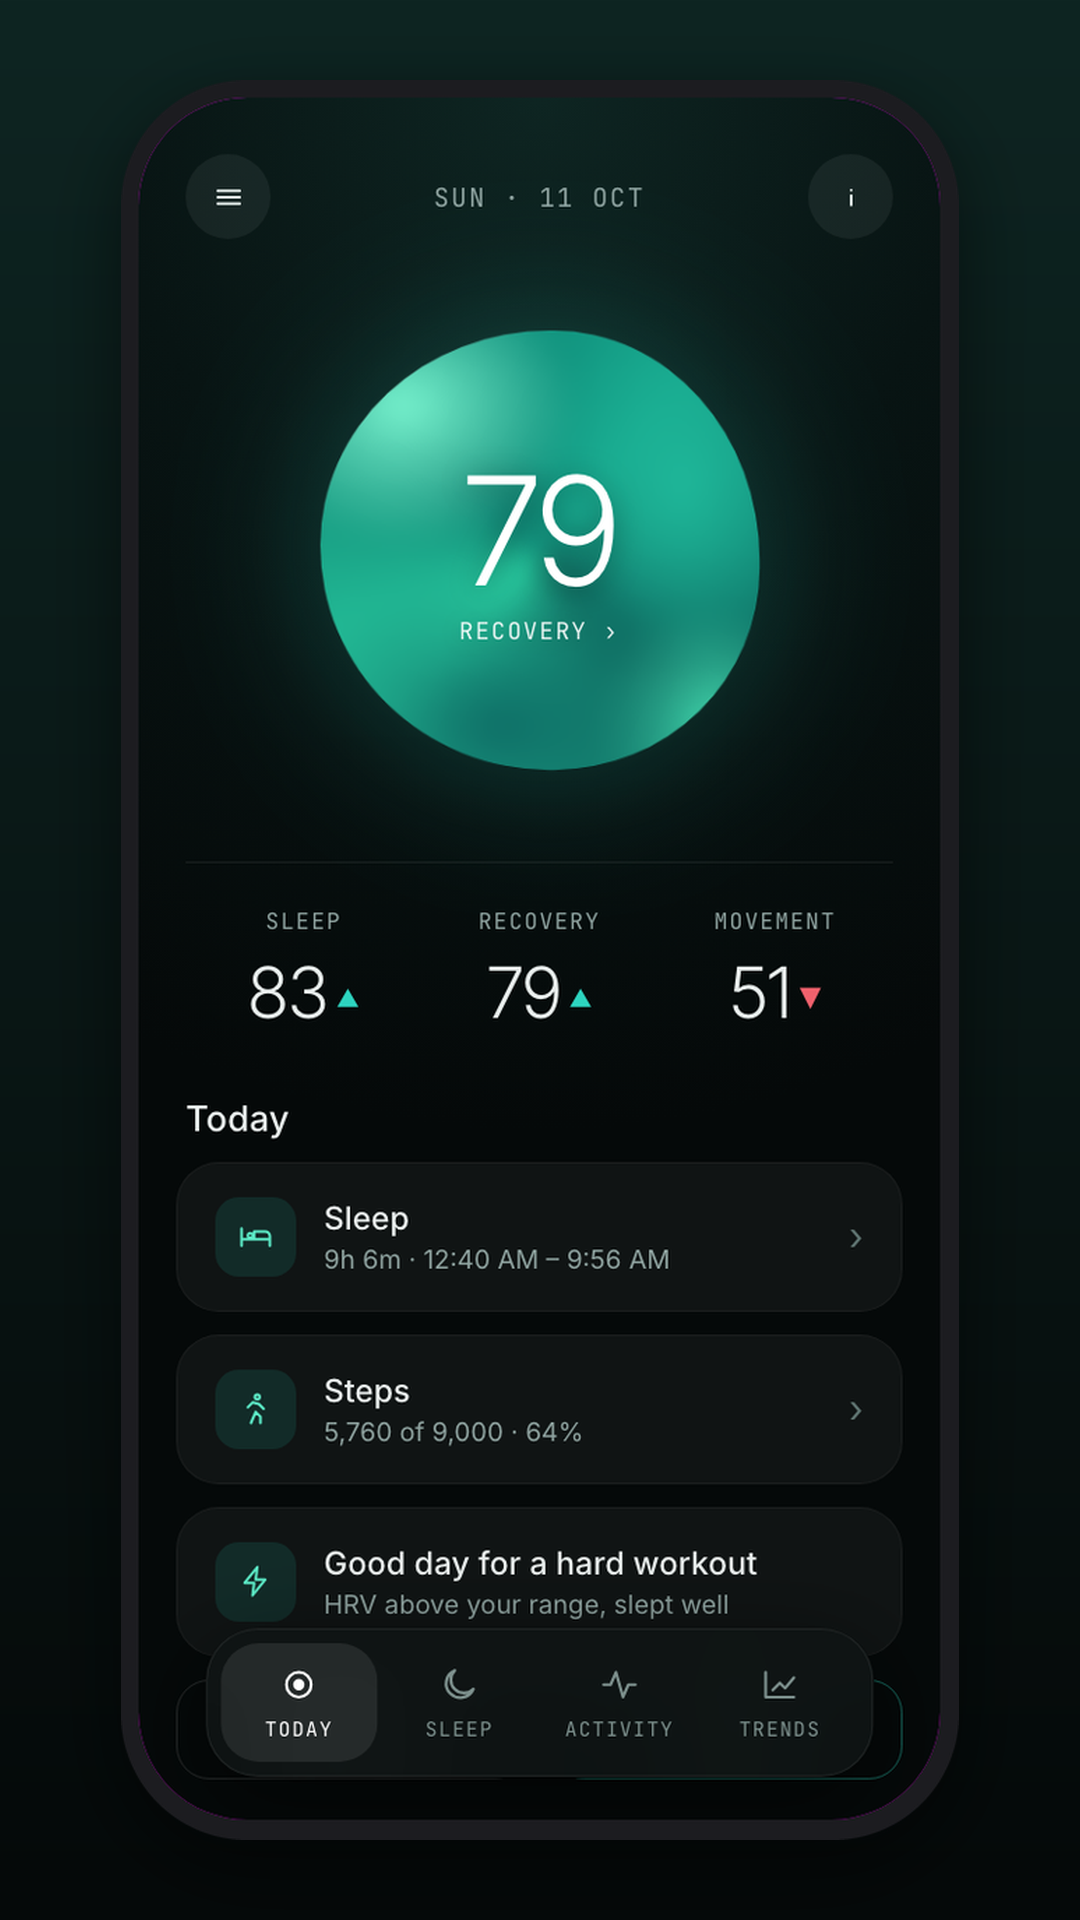
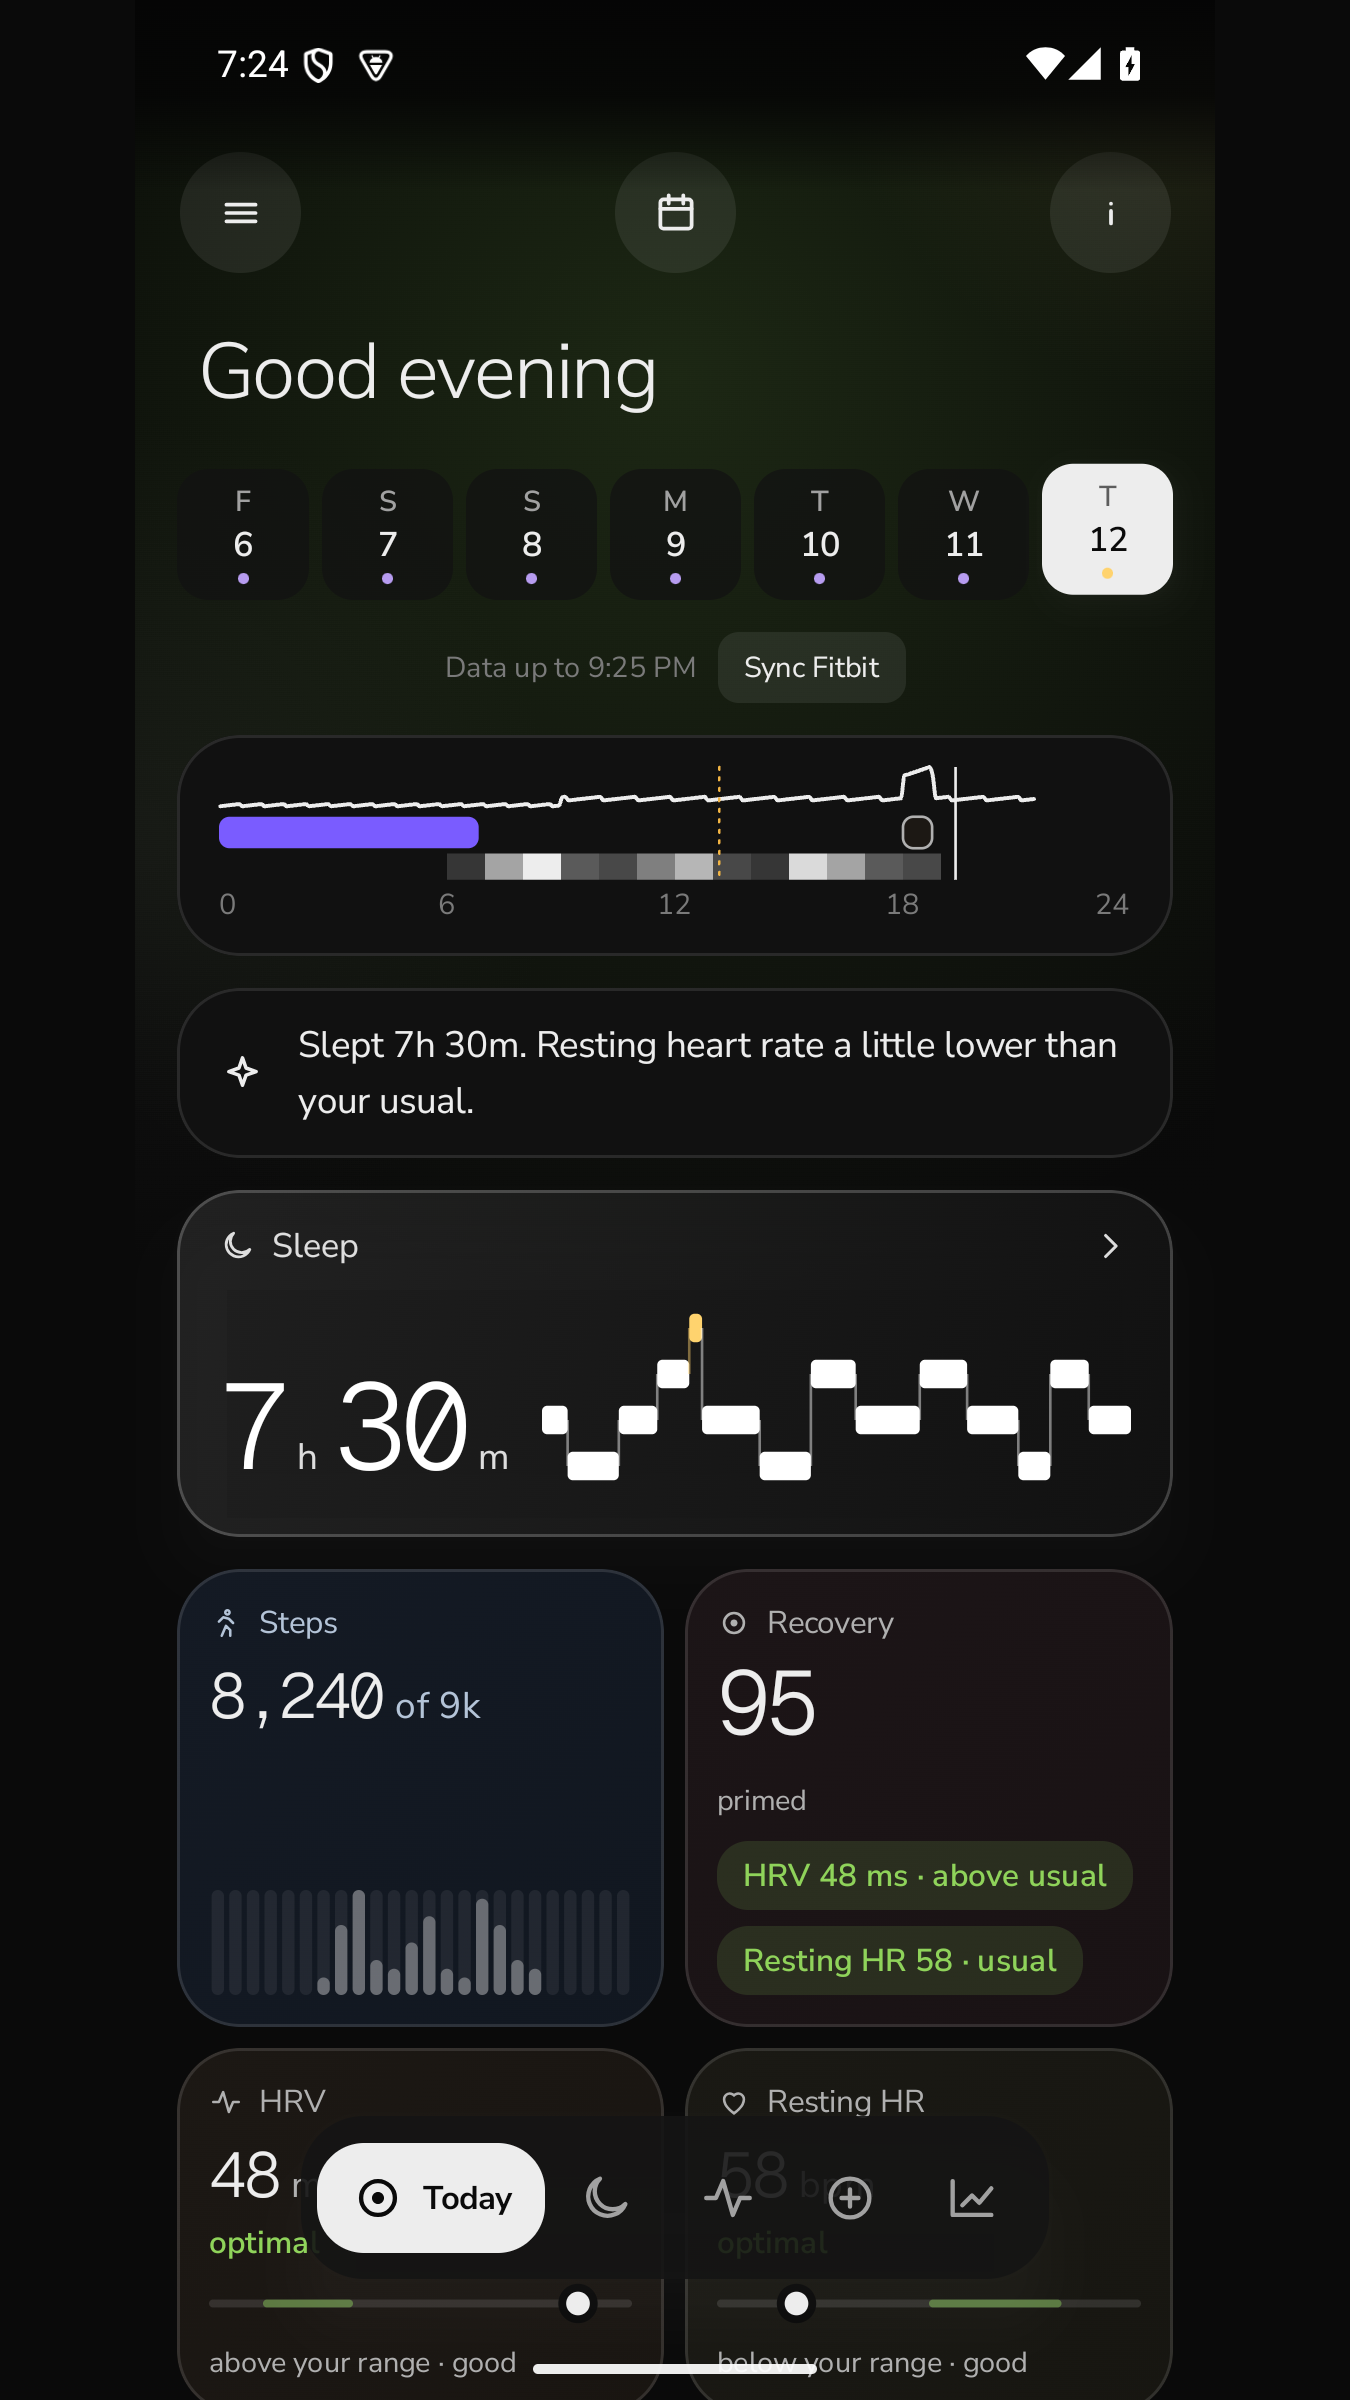
Sample data for store screenshots: debug builds started with the demo extra; five new Play screenshots

diff --git a/app/src/main/java/app/fitdash/MainActivity.kt b/app/src/main/java/app/fitdash/MainActivity.kt
@@ -58,6 +58,7 @@ import app.fitdash.settings.SettingsStore
 import app.fitdash.settings.ThemeChoice
 import app.fitdash.ui.LoadingScreen
 import app.fitdash.ui.MessageScreen
+import app.fitdash.ui.DemoSource
 import app.fitdash.ui.IntroScreen
 import app.fitdash.ui.NameScreen
 import app.fitdash.ui.NoDataScreen
@@ -92,7 +93,8 @@ class MainActivity : ComponentActivity() {
         openPage.value = intent.pageExtra()
         super.onCreate(savedInstanceState)
         clearShareCache(applicationContext)
-        val vm: TodayViewModel by viewModels { viewModelFactory { initializer { TodayViewModel(HealthReader(applicationContext), settings = SettingsStore.get(applicationContext).flow, onReadFailed = { Log.w("fitdash", "Health Connect read failed", it) }, store = SnapshotCache(applicationContext), onCacheSaved = { FitdashWidget().updateAll(applicationContext) }, journal = JournalStore.get(applicationContext)) } } }
+        demo = BuildConfig.DEBUG && intent.getBooleanExtra("demo", false)
+        val vm: TodayViewModel by viewModels { viewModelFactory { initializer { TodayViewModel(if (demo) DemoSource else HealthReader(applicationContext), settings = SettingsStore.get(applicationContext).flow, onReadFailed = { Log.w("fitdash", "Health Connect read failed", it) }, store = if (demo) null else SnapshotCache(applicationContext), onCacheSaved = { FitdashWidget().updateAll(applicationContext) }, journal = JournalStore.get(applicationContext)) } } }
         splash.setKeepOnScreenCondition { vm.state.value == TodayUiState.Loading && SystemClock.uptimeMillis() - splashStart < SPLASH_MAX_MILLIS }
         splash.setOnExitAnimationListener { provider ->
             val view = provider.view
@@ -133,13 +135,16 @@ private fun Intent?.pageExtra(): Int? = this?.getIntExtra(EXTRA_PAGE, -1)?.takeI
 private const val HEALTH_CONNECT_STORE =
     "market://details?id=com.google.android.apps.healthdata&url=healthconnect%3A%2F%2Fonboarding"
 
+// Debug builds started with `--ez demo true` show sample data, for store screenshots.
+private var demo = false
+
 @Composable
 private fun App(store: SettingsStore, openPage: MutableStateFlow<Int?>) {
     val context = LocalContext.current
     val vm: TodayViewModel = viewModel {
         TodayViewModel(
-            HealthReader(context.applicationContext), settings = store.flow, onReadFailed = { Log.w("fitdash", "Health Connect read failed", it) },
-            store = SnapshotCache(context.applicationContext), onCacheSaved = { FitdashWidget().updateAll(context.applicationContext) },
+            if (demo) DemoSource else HealthReader(context.applicationContext), settings = store.flow, onReadFailed = { Log.w("fitdash", "Health Connect read failed", it) },
+            store = if (demo) null else SnapshotCache(context.applicationContext), onCacheSaved = { FitdashWidget().updateAll(context.applicationContext) },
             journal = JournalStore.get(context.applicationContext),
         )
     }

diff --git a/app/src/main/java/app/fitdash/ui/PreviewData.kt b/app/src/main/java/app/fitdash/ui/PreviewData.kt
@@ -31,15 +31,18 @@ object PreviewData {
         val plan = listOf(
             StageType.LIGHT to 20, StageType.DEEP to 40, StageType.LIGHT to 30, StageType.REM to 25, StageType.AWAKE to 10,
             StageType.LIGHT to 45, StageType.DEEP to 40, StageType.REM to 35, StageType.LIGHT to 50, StageType.REM to 37,
+            StageType.LIGHT to 40, StageType.DEEP to 25, StageType.REM to 30, StageType.LIGHT to 33,
         )
         var t = start
         val stages = plan.map { (type, min) -> val e = t.plusSeconds(min * 60L); SleepStage(t, e, type).also { t = e } }
         return SleepSession(start, t, stages)
     }
 
-    private val snapshot by lazy {
+    private val snapshot by lazy { snapshot(today) }
+
+    fun snapshot(today: LocalDate): HealthSnapshot {
         val days = (0..13).map { today.minusDays(it.toLong()) }
-        HealthSnapshot(
+        return HealthSnapshot(
             sleep = days.map { stagedNight(at(it.minusDays(1), 23, 10)) },
             hrv = days.mapIndexed { i, d -> Sample(at(d, 5), if (i == 0) 48.0 else 40.0 + i % 5) },
             restingHr = days.mapIndexed { i, d -> Sample(at(d, 7), if (i == 0) 58.0 else 60.0 + i % 3) },
@@ -50,6 +53,7 @@ object PreviewData {
                 (1..27).map { DayActivity(today.minusDays(it.toLong()), if (it == 1) 5760 else 7000L + (it % 5) * 600, 4300.0 + it * 40, 1820.0 + it * 10) },
             workouts = listOf(Workout(at(today, 18), at(today, 18, 46), ExerciseType.RUNNING, distanceMeters = 5100.0, kcal = 312.0, avgHr = 148.0, maxHr = 171.0, app = "com.fitbit.FitbitMobile")) +
                 (1..3).map { w -> val d = today.minusDays(w * 7L); Workout(at(d, 18), at(d, 18, 50), ExerciseType.RUNNING, distanceMeters = 5400.0, kcal = 330.0, avgHr = 150.0, maxHr = 172.0, app = "com.fitbit.FitbitMobile") },
+            waterDaily = mapOf(today to 1.5),
             heightMeters = 1.75,
             weightKg = 72.4,
             heartRate = (0 until 24 * 12).map { i -> Sample(at(today, 0).plusSeconds(i * 300L), if (i < 108) 56.0 + (i % 7) else if (i in 216..225) 140.0 + (i % 9) * 3 else 72.0 + (i % 11)) }.filter { it.time.isBefore(at(today, 21, 30)) },

diff --git a/app/src/main/java/app/fitdash/ui/DemoSource.kt b/app/src/main/java/app/fitdash/ui/DemoSource.kt
@@ -1,0 +1,25 @@
+package app.fitdash.ui
+
+import app.fitdash.health.Availability
+import app.fitdash.health.HealthSnapshot
+import app.fitdash.health.HealthSource
+import app.fitdash.health.ReadProgress
+import app.fitdash.settings.NutrientKind
+import java.time.Instant
+import java.time.ZonedDateTime
+
+// The preview sample days served as if they came from Health Connect. Nothing is read or written.
+object DemoSource : HealthSource {
+    override val allPermissions = setOf("demo")
+    override fun availability() = Availability.AVAILABLE
+    override suspend fun grantedPermissions() = allPermissions
+    override suspend fun read(now: ZonedDateTime, since: Instant?, onProgress: (ReadProgress) -> Unit): HealthSnapshot = PreviewData.snapshot(now.toLocalDate())
+    override suspend fun addWater(liters: Double, at: Instant): String? = null
+    override suspend fun deleteWater(id: String) = false
+    override suspend fun addSteps(start: Instant, end: Instant, count: Long) = false
+    override suspend fun addSleep(start: Instant, end: Instant): String? = null
+    override suspend fun deleteSleep(id: String) = false
+    override suspend fun setHeight(meters: Double, at: Instant) = false
+    override suspend fun addNutrient(kind: NutrientKind, amount: Double, at: Instant): String? = null
+    override suspend fun deleteNutrient(id: String) = false
+}
